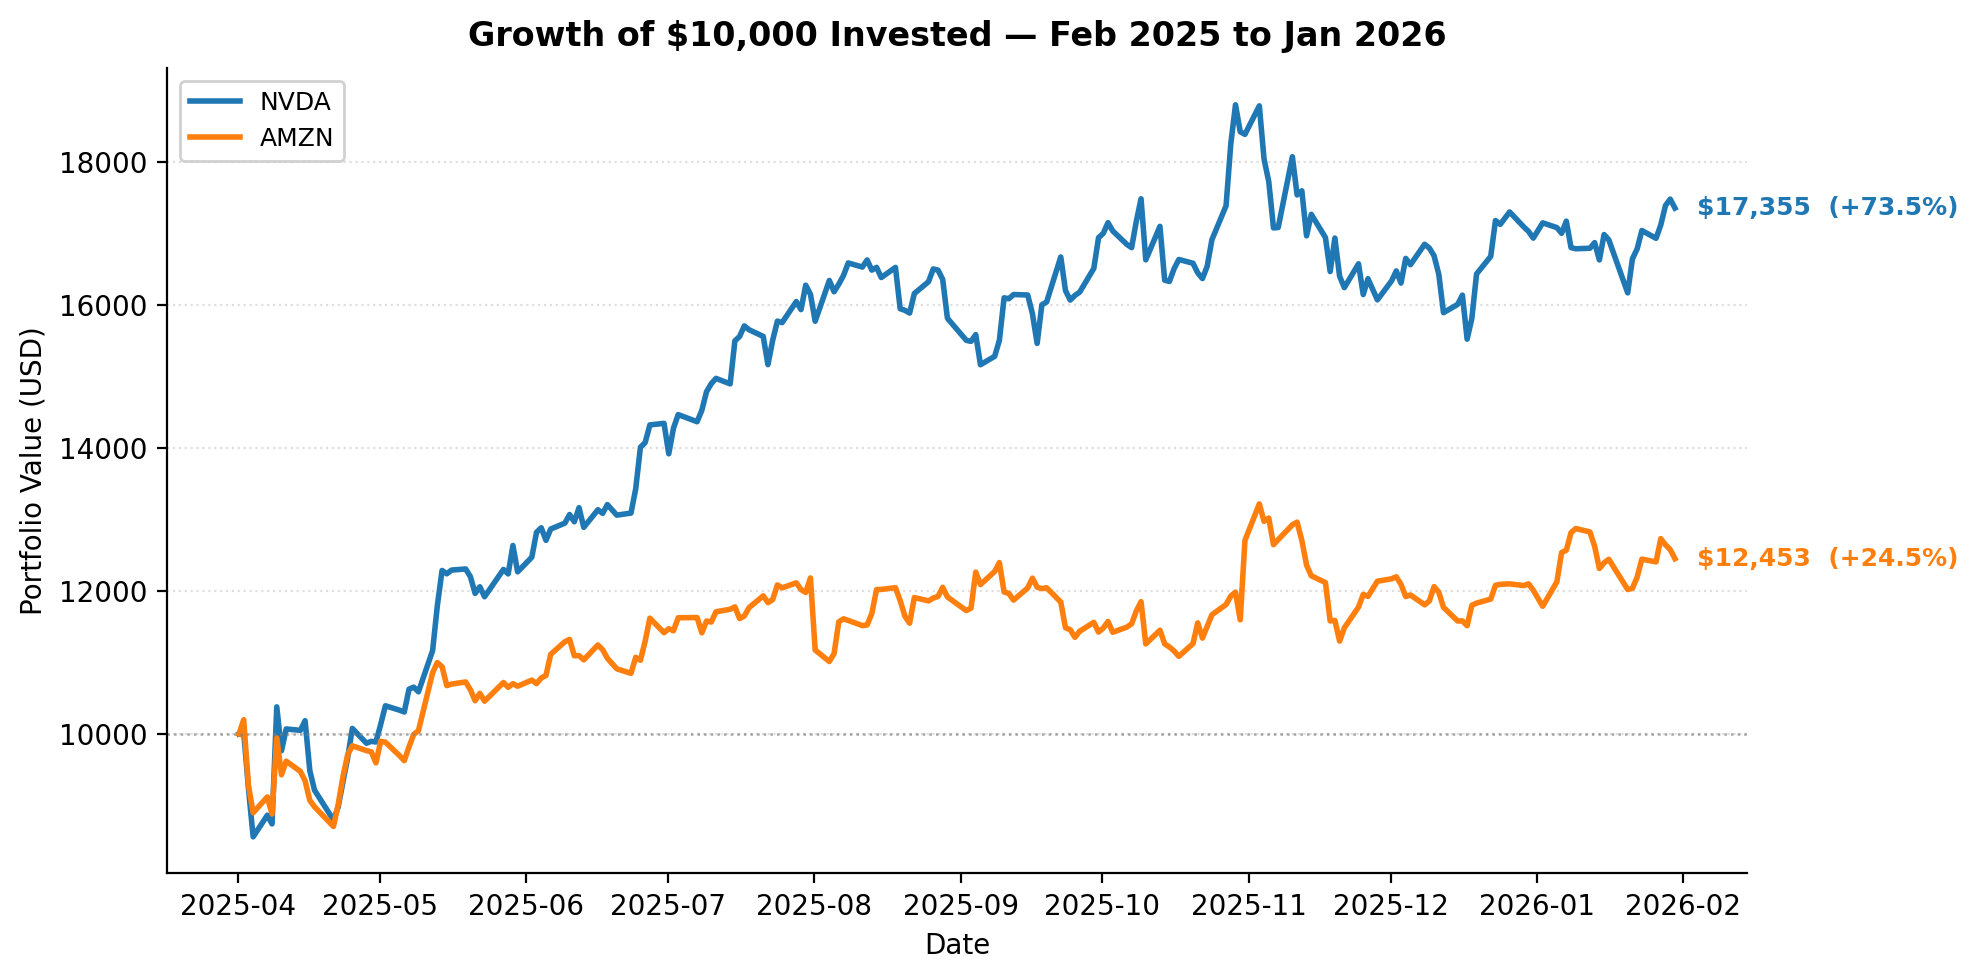
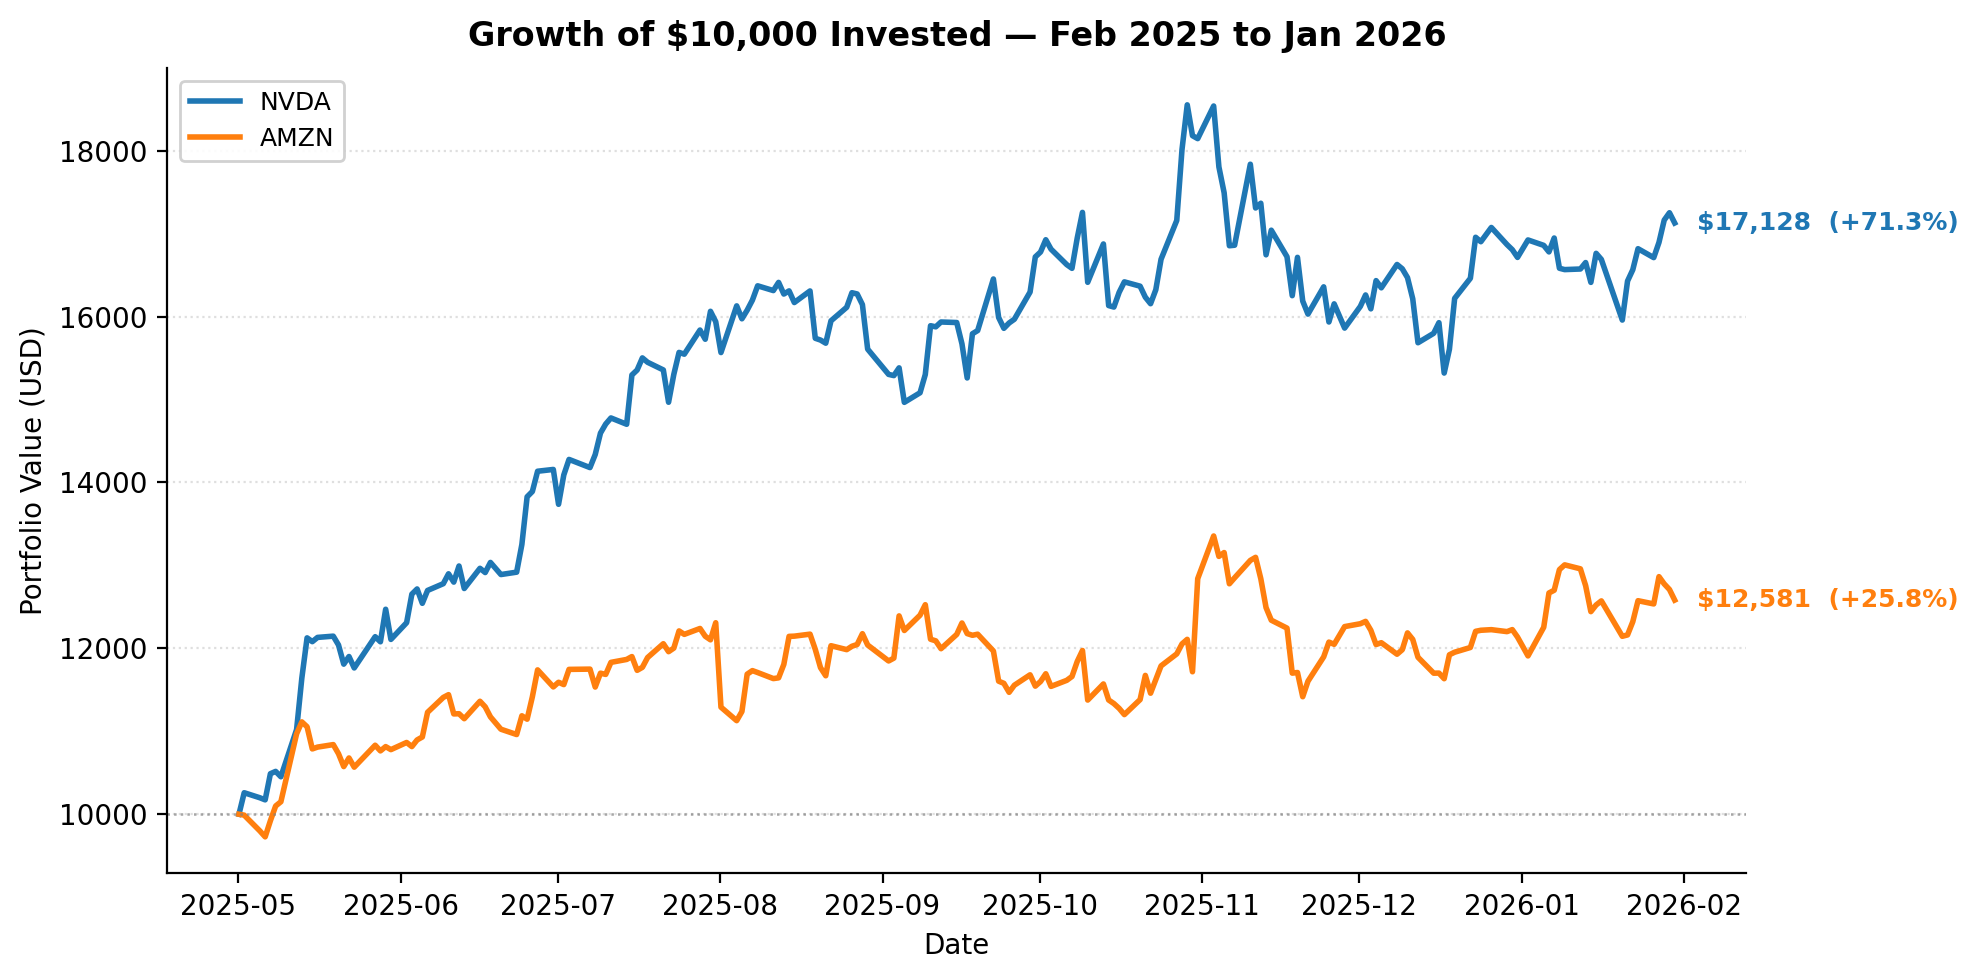
Updated the comparison period to begin in May, updated 2026 GPTW info for NVDA

diff --git a/data_fetcher.py b/data_fetcher.py
@@ -46,7 +46,7 @@ CASE_STUDY_EVENTS = [
     ("NVDA", "2023-01-15", "BPTW #5\nGPTW #6",   "darkgreen"),
     ("NVDA", "2024-01-15", "BPTW #2\nGPTW #3",   "darkgreen"),
     ("NVDA", "2025-01-15", "BPTW #4\nGPTW #5",   "darkgreen"),
-    ("NVDA", "2026-01-15", "BPTW #3",             "darkgreen"),
+    ("NVDA", "2026-01-15", "BPTW #3\nGPTW #6",   "darkgreen"),
     ("AMZN", "2022-04-01", "ALU union\nvote victory", "red"),
     ("AMZN", "2022-11-16", "10k layoffs",         "darkred"),
     ("AMZN", "2023-01-18", "18k layoffs",         "darkred"),
@@ -575,7 +575,7 @@ EVENT_LABELS  = {
     "red":       "Union / protest",
     "darkred":   "Mass layoff",
 }
-INVEST_START  = pd.Timestamp("2025-04-01", tz="UTC")
+INVEST_START  = pd.Timestamp("2025-05-01", tz="UTC")
 INVEST_END    = pd.Timestamp("2026-03-31", tz="UTC")
 INVEST_AMOUNT = 10_000   # USD
 
@@ -835,7 +835,7 @@ def plot_stratesg(data: dict, output_path: str = "output/stratesg_comparison.png
             ))
 
     ax.axhline(INVEST_AMOUNT, color="#AAAAAA", linewidth=0.9, linestyle=":")
-    ax.set_title("StratESG vs SPY vs HAPI — 1 year growth on $10k invested",
+    ax.set_title("StratESG vs SPY vs HAPI — growth on $10k invested (May 1, 2025 to Mar 31, 2026)",
                  fontsize=12, fontweight="bold", pad=8)
     ax.set_ylabel("Portfolio Value (USD)")
     ax.set_xlabel("Date")
